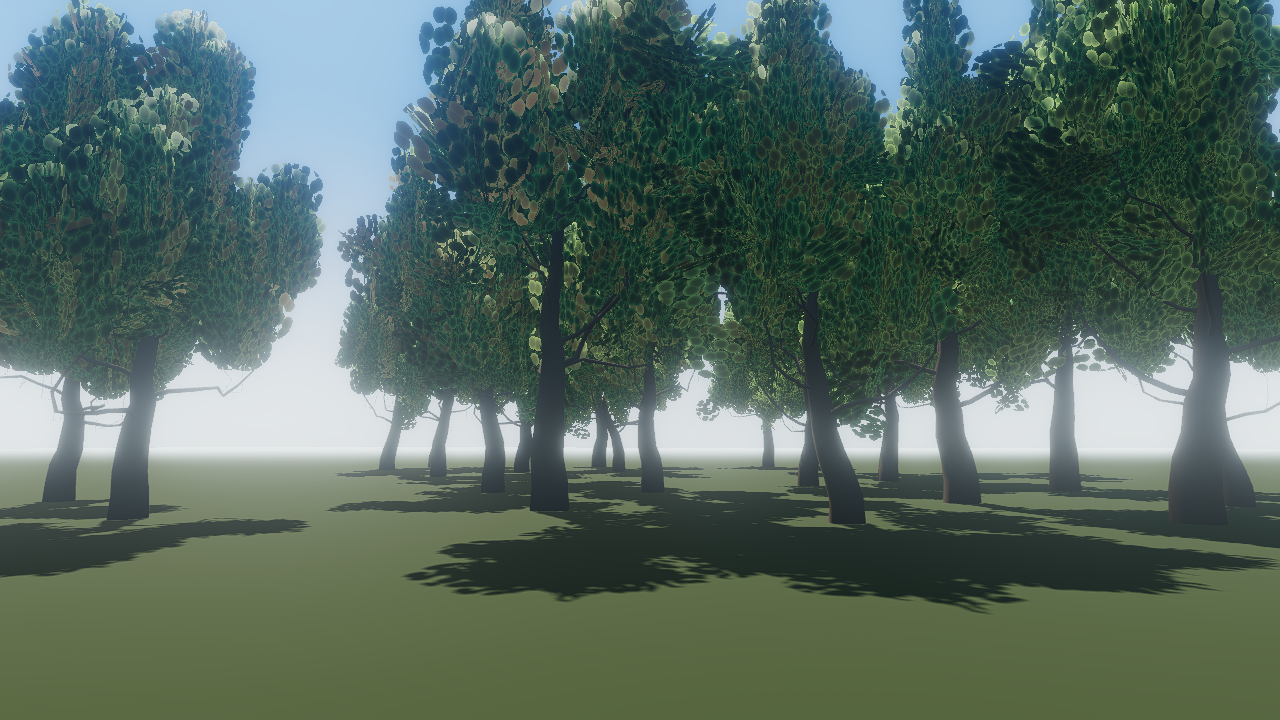
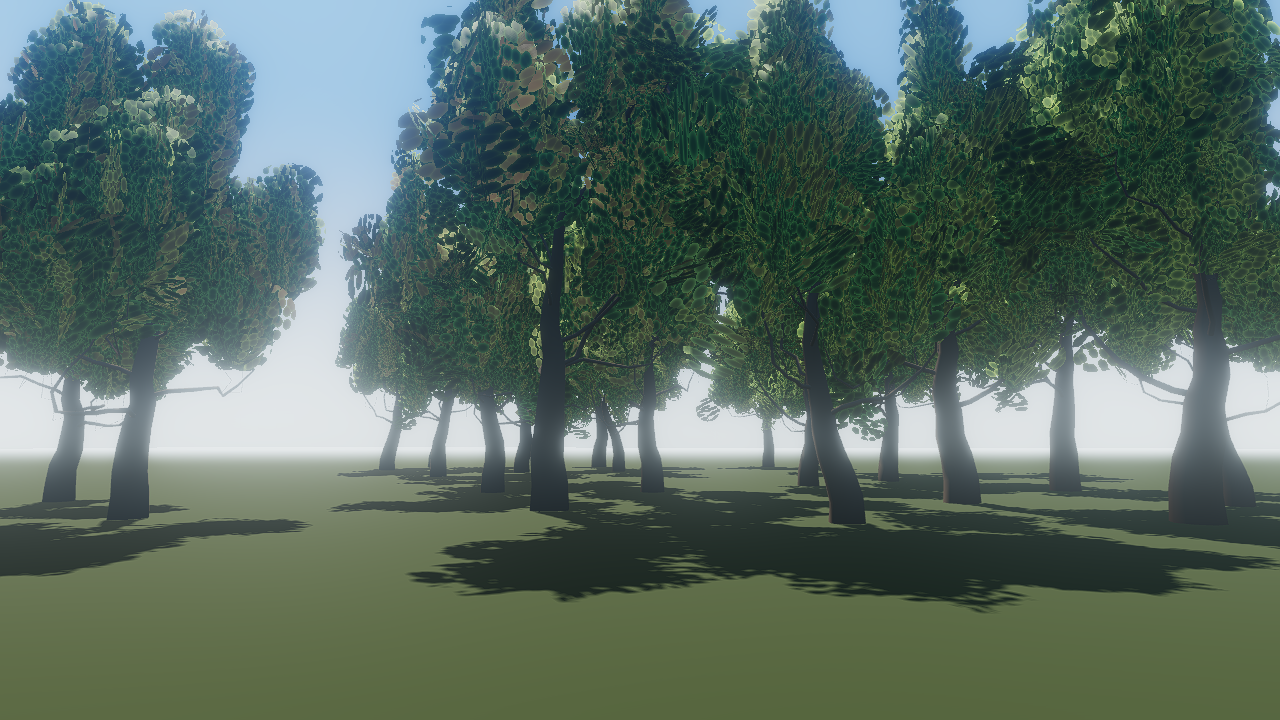
grove: vary leaf clusters by tree-space position so the canopy is not one repeated stamp

diff --git a/grove/src/render/trees.ts b/grove/src/render/trees.ts
@@ -5,7 +5,20 @@
 // `windVariant`, so a variant's materials are replaced by wind clones and every tree built from
 // that variant sways with its own phase.
 import { DoubleSide, Mesh } from "three";
-import { color, length, vec2, mix, mx_worley_noise_float, oneMinus, smoothstep, sub, uv } from "three/tsl";
+import {
+  color,
+  length,
+  mix,
+  mx_noise_float,
+  mx_worley_noise_float,
+  oneMinus,
+  positionGeometry,
+  smoothstep,
+  sub,
+  uv,
+  vec2,
+  vec3,
+} from "three/tsl";
 import { MeshStandardNodeMaterial } from "three/webgpu";
 import type { IGeneratedTree } from "../vegetation/tree.js";
 import { createTreeWind } from "./wind.js";
@@ -30,12 +43,17 @@ export const leafMaterial = new MeshStandardNodeMaterial({
 
 // The donor gives every leaf quad a 0..1 uv, so one procedural cluster fits in each: small leaf
 // blobs where the worley field is near a cell centre, clipped to a disc so the quad's own corners
-// never show. `cells` varies per fragment, so the colour mix mottles each cluster on its own.
-const cells = mx_worley_noise_float(uv().mul(vec2(7, 4.5)), 1);
+// never show. Every quad shares that uv range, so the cluster is shifted by the fragment's
+// pre-wind tree-space position; without it the whole canopy is one stamp repeated (judge, round 5).
+const seed = positionGeometry.xz.mul(1.7).add(positionGeometry.y.mul(0.9));
+const cells = mx_worley_noise_float(uv().mul(vec2(7, 4.5)).add(seed), 1);
 const blob = oneMinus(smoothstep(0.16, 0.3, cells));
 const round = oneMinus(smoothstep(0.38, 0.5, length(sub(uv(), 0.5))));
 // `cells` stays under ~0.3 inside a blob, so remap that range: dark at the vein, sunlit at the rim.
-leafMaterial.colorNode = mix(color(0x3d6a26), color(0x9cc455), smoothstep(0, 0.3, cells));
+const leaf = mix(color(0x3d6a26), color(0x9cc455), smoothstep(0, 0.3, cells));
+// Canopy-scale drift between fresh green and a warmer, older olive, a few metres per patch.
+const age = mx_noise_float(positionGeometry.mul(0.35)).mul(0.5).add(0.5);
+leafMaterial.colorNode = mix(leaf, leaf.mul(vec3(1.2, 1.05, 0.62)), age);
 leafMaterial.maskNode = blob.mul(round).greaterThan(0.5);
 
 /** One wind per variant material, expanded to cover the displacement the shader applies. */
